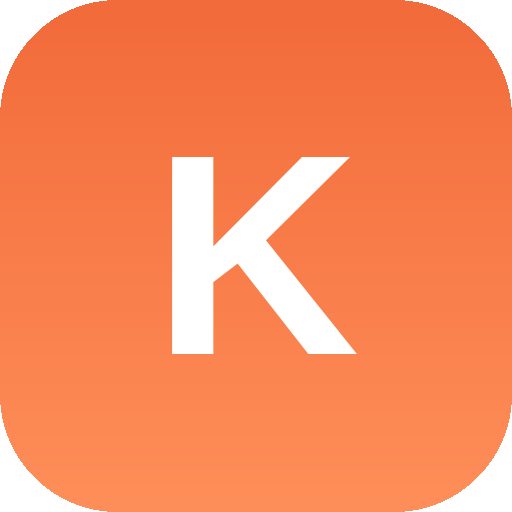
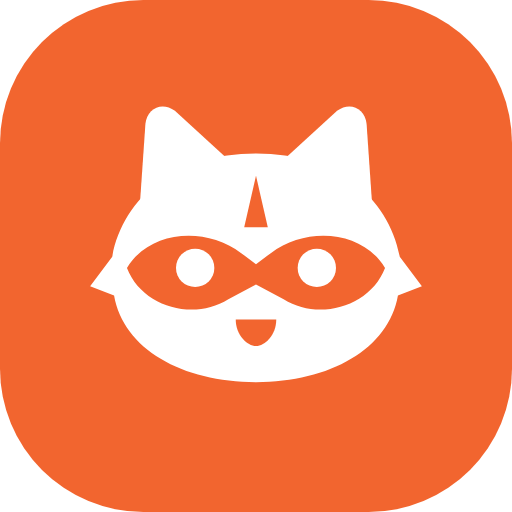
Yeni marka: sade rakun logosu (uygulama ikonu, sekme ikonu, giriş, kenar çubuğu, başlık çubuğu), yükleme animasyonu (web açılışı, masaüstü açılış ekranı, kurulum); masaüstü 1.0.7
Claude-Session: https://claude.ai/code/session_01AcU5T4gWWL8fk1GJf9ZqYd

diff --git a/public/index.html b/public/index.html
@@ -31,7 +31,9 @@
   #auth { position: fixed; inset: 0; z-index: 20; display: flex; align-items: center; justify-content: center;
     background: radial-gradient(circle at 20% 20%, rgba(255,138,76,.18) 0, transparent 40%), radial-gradient(circle at 80% 80%, rgba(255,179,71,.12) 0, transparent 40%), var(--bg); }
   #auth .card { background: var(--panel); width: 400px; padding: 36px; border-radius: 28px; text-align: center; box-shadow: 0 20px 60px rgba(0,0,0,.45); border: 1px solid var(--line); }
-  .logo { width: 72px; height: 72px; margin: 0 auto 14px; border-radius: 22px; background: var(--mine); color: #fff; display: flex; align-items: center; justify-content: center; font-size: 36px; transform: rotate(-6deg); }
+  .logo { width: 76px; height: 76px; margin: 0 auto 14px; border-radius: 22px; background: #F2652F; color: #fff; display: flex; align-items: center; justify-content: center; }
+  .logo .klogo { width: 56px; height: 56px; }
+  .ic.klogo { stroke: none; }
   #auth h1 { font-size: 28px; font-weight: 800; }
   #auth p { color: var(--muted); margin: 6px 0 20px; }
   .tabs { display: flex; background: var(--card); border-radius: 14px; padding: 4px; margin-bottom: 16px; }
@@ -50,7 +52,7 @@
   .srv { width: 48px; height: 48px; border-radius: 50%; background: var(--card); border: 2px solid var(--line); font-weight: 800; font-size: 17px; transition: all .15s; position: relative; flex-shrink: 0; }
   .srv:hover { border-radius: 16px; border-color: var(--accent-2); }
   .srv.active { border-radius: 16px; background: var(--accent); border-color: var(--accent); color: #fff; }
-  .srv.home { background: var(--mine); border: none; color: #fff; font-size: 22px; border-radius: 16px; }
+  .srv.home { background: #F2652F; border: none; color: #fff; font-size: 22px; border-radius: 16px; }
   .srv.dash { border-style: dashed; color: var(--accent); font-size: 20px; }
   .srv .dot { position: absolute; right: -2px; top: -2px; width: 14px; height: 14px; border-radius: 50%; background: var(--red); border: 3px solid var(--panel); }
   .rsep { width: 30px; height: 2px; background: var(--line); border-radius: 2px; flex-shrink: 0; }
@@ -351,7 +353,7 @@
   .ic.fill { fill: currentColor; stroke: none; }
   button .ic + span, .ic + span { margin-left: 6px; }
   .logo .ic { width: 40px; height: 40px; stroke-width: 1.8; }
-  .srv.home .ic { width: 26px; height: 26px; }
+  .srv.home .ic { width: 30px; height: 30px; }
   .room .ico .ic { width: 17px; height: 17px; color: var(--accent); }
   .room.active .ico .ic { color: #fff; }
   .hbtn .ic, .ibtn .ic { width: 19px; height: 19px; }
@@ -415,8 +417,8 @@
   #titlebar { display: none; }
   body.has-tb #titlebar { display: flex; position: fixed; top: 0; left: 0; right: 0; height: 34px; align-items: center; gap: 8px; padding-left: 14px; -webkit-app-region: drag; user-select: none;
     font-size: 12.5px; font-weight: 800; letter-spacing: .02em; color: var(--muted); z-index: 60; background: var(--bg); }
-  #titlebar .tb-logo { width: 18px; height: 18px; border-radius: 6px; background: var(--mine); display: flex; align-items: center; justify-content: center; }
-  #titlebar .tb-logo .ic { width: 13px; height: 13px; color: #fff; stroke-width: 2.4; }
+  #titlebar .tb-logo { width: 18px; height: 18px; border-radius: 5px; background: #F2652F; display: flex; align-items: center; justify-content: center; }
+  #titlebar .tb-logo .ic { width: 14px; height: 14px; color: #fff; }
   #titlebar .tb-where { margin-left: 4px; font-weight: 700; opacity: .7; }
   body.has-tb #app { height: calc(100vh - 34px); margin-top: 34px; padding-top: 2px; }
   body.has-tb #auth { top: 34px; }
@@ -708,7 +710,10 @@
   .xox button.x, .xox button.o { animation: pop .3s var(--ease); }
   #auth .card { animation: authIn .6s var(--ease-out); }
   @keyframes authIn { from { opacity: 0; transform: translateY(24px) scale(.96); } }
-  .logo { animation: wave 2.4s ease-in-out infinite; }
+  .logo { animation: none; }
+  #boot { position: fixed; inset: 0; z-index: 100; background: #17110e; display: flex; flex-direction: column; align-items: center; justify-content: center; gap: 4px; transition: opacity .3s; }
+  #boot.out { opacity: 0; pointer-events: none; }
+  #boot div { color: #b49c89; font-weight: 700; font-size: 14px; }
   @keyframes wave { 0%, 100% { transform: rotate(-6deg); } 50% { transform: rotate(6deg) translateY(-3px); } }
   #auth-err:not(:empty) { animation: shake .4s; }
   @keyframes shake { 20%, 60% { transform: translateX(-6px); } 40%, 80% { transform: translateX(6px); } }
@@ -828,10 +833,11 @@
 </head>
 <body>
 
-<div id="titlebar"><span class="tb-logo"><svg class="ic" viewBox="0 0 24 24" aria-hidden="true"><path d="M5 4h14a3 3 0 0 1 3 3v8a3 3 0 0 1-3 3h-6l-5 4v-4H5a3 3 0 0 1-3-3V7a3 3 0 0 1 3-3z"/><path d="M9 9.5v1M15 9.5v1M8.5 13.5c1.8 1.6 5.2 1.6 7 0"/></svg></span>Kanka Chat<span class="tb-where" id="tb-where"></span></div>
+<div id="titlebar"><span class="tb-logo"><svg class="ic klogo" viewBox="0 0 100 100" aria-hidden="true"><defs><mask id="klm-tb" maskUnits="userSpaceOnUse" x="0" y="0" width="100" height="100"><rect width="100" height="100" fill="#000"/><path d="M18 46 L20 17 C20.4 12.6 24.6 10.8 28 13.4 L44 28 Z" fill="#fff"/><path d="M82 46 L80 17 C79.6 12.6 75.4 10.8 72 13.4 L56 28 Z" fill="#fff"/><path d="M50 25 C72 25 86 37 89 53 L95 61 L88.5 63.5 C86 78 70 87 50 87 C30 87 14 78 11.5 63.5 L5 61 L11 53 C14 37 28 25 50 25 Z" fill="#fff"/><path d="M50 31 L53.2 45 L46.8 45 Z" fill="#000"/><path d="M15 56 C21 46 36 44.5 46 52 L50 55 L54 52 C64 44.5 79 46 85 56 C81 66.5 67 70.5 57.5 64.5 L50 60.5 L42.5 64.5 C33 70.5 19 66.5 15 56 Z" fill="#000"/><circle cx="33.5" cy="56" r="5.2" fill="#fff"/><circle cx="66.5" cy="56" r="5.2" fill="#fff"/><path d="M44.5 70 L55.5 70 C55.5 74.2 52.4 77.2 50 77.2 C47.6 77.2 44.5 74.2 44.5 70 Z" fill="#000"/></mask></defs><rect width="100" height="100" fill="currentColor" mask="url(#klm-tb)"/></svg></span>Kanka Chat<span class="tb-where" id="tb-where"></span></div>
+<div id="boot" role="status" aria-live="polite"><img src="/yukleniyor.gif" width="160" height="160" alt=""><div id="boot-t">Bağlanılıyor…</div></div>
 <div id="auth">
   <form class="card" id="auth-form">
-    <div class="logo"><svg class="ic " viewBox="0 0 24 24" aria-hidden="true"><path d="M5 4h14a3 3 0 0 1 3 3v8a3 3 0 0 1-3 3h-6l-5 4v-4H5a3 3 0 0 1-3-3V7a3 3 0 0 1 3-3z"/><path d="M9 9.5v1M15 9.5v1M8.5 13.5c1.8 1.6 5.2 1.6 7 0"/></svg></div>
+    <div class="logo"><svg class="ic klogo" viewBox="0 0 100 100" aria-hidden="true"><defs><mask id="klm-auth" maskUnits="userSpaceOnUse" x="0" y="0" width="100" height="100"><rect width="100" height="100" fill="#000"/><path d="M18 46 L20 17 C20.4 12.6 24.6 10.8 28 13.4 L44 28 Z" fill="#fff"/><path d="M82 46 L80 17 C79.6 12.6 75.4 10.8 72 13.4 L56 28 Z" fill="#fff"/><path d="M50 25 C72 25 86 37 89 53 L95 61 L88.5 63.5 C86 78 70 87 50 87 C30 87 14 78 11.5 63.5 L5 61 L11 53 C14 37 28 25 50 25 Z" fill="#fff"/><path d="M50 31 L53.2 45 L46.8 45 Z" fill="#000"/><path d="M15 56 C21 46 36 44.5 46 52 L50 55 L54 52 C64 44.5 79 46 85 56 C81 66.5 67 70.5 57.5 64.5 L50 60.5 L42.5 64.5 C33 70.5 19 66.5 15 56 Z" fill="#000"/><circle cx="33.5" cy="56" r="5.2" fill="#fff"/><circle cx="66.5" cy="56" r="5.2" fill="#fff"/><path d="M44.5 70 L55.5 70 C55.5 74.2 52.4 77.2 50 77.2 C47.6 77.2 44.5 74.2 44.5 70 Z" fill="#000"/></mask></defs><rect width="100" height="100" fill="currentColor" mask="url(#klm-auth)"/></svg></div>
     <h1>Selam kanka!</h1>
     <p>Hesabına gir ya da yeni hesap aç.</p>
     <div class="tabs"><button type="button" class="on" data-m="login">Giriş yap</button><button type="button" data-m="register">Kayıt ol</button></div>
@@ -980,7 +986,11 @@ const ICON = {
   idcopy: '<rect x="3" y="5" width="18" height="14" rx="2"/><path d="M7 10h4M7 14h7M15 10h2"/>',
   folderPlus: '<path d="M3 7a2 2 0 0 1 2-2h4l2 2h8a2 2 0 0 1 2 2v8a2 2 0 0 1-2 2H5a2 2 0 0 1-2-2z"/><path d="M12 11v5M9.5 13.5h5"/>'
 };
-const ic = (n, cls = '') => `<svg class="ic ${cls}" viewBox="0 0 24 24" aria-hidden="true">${ICON[n] || ''}</svg>`;
+// Kanka rakun işareti: tek renk (currentColor), yüz maskeyle oyulur
+let logoN = 0;
+const LOGO_IN = id => `<defs><mask id="${id}" maskUnits="userSpaceOnUse" x="0" y="0" width="100" height="100"><rect width="100" height="100" fill="#000"/><path d="M18 46 L20 17 C20.4 12.6 24.6 10.8 28 13.4 L44 28 Z" fill="#fff"/><path d="M82 46 L80 17 C79.6 12.6 75.4 10.8 72 13.4 L56 28 Z" fill="#fff"/><path d="M50 25 C72 25 86 37 89 53 L95 61 L88.5 63.5 C86 78 70 87 50 87 C30 87 14 78 11.5 63.5 L5 61 L11 53 C14 37 28 25 50 25 Z" fill="#fff"/><path d="M50 31 L53.2 45 L46.8 45 Z" fill="#000"/><path d="M15 56 C21 46 36 44.5 46 52 L50 55 L54 52 C64 44.5 79 46 85 56 C81 66.5 67 70.5 57.5 64.5 L50 60.5 L42.5 64.5 C33 70.5 19 66.5 15 56 Z" fill="#000"/><circle cx="33.5" cy="56" r="5.2" fill="#fff"/><circle cx="66.5" cy="56" r="5.2" fill="#fff"/><path d="M44.5 70 L55.5 70 C55.5 74.2 52.4 77.2 50 77.2 C47.6 77.2 44.5 74.2 44.5 70 Z" fill="#000"/></mask></defs><rect width="100" height="100" fill="currentColor" mask="url(#${id})"/>`;
+const logoSvg = (cls = '') => `<svg class="ic klogo ${cls}" viewBox="0 0 100 100" aria-hidden="true">${LOGO_IN('klm' + (++logoN))}</svg>`;
+const ic = (n, cls = '') => n === 'logo' ? logoSvg(cls) : `<svg class="ic ${cls}" viewBox="0 0 24 24" aria-hidden="true">${ICON[n] || ''}</svg>`;
 const $ = s => document.querySelector(s);
 const store = { get: k => { try { return localStorage.getItem(k); } catch { return null; } }, set: (k, v) => { try { v == null ? localStorage.removeItem(k) : localStorage.setItem(k, v); } catch {} } };
 
@@ -1050,7 +1060,10 @@ $('#auth-form').onsubmit = e => {
   if (!name || !password) return $('#auth-err').textContent = 'Kullanıcı adı ve şifre gerekli.';
   socket.emit(authMode, { name, password }, onAuth);
 };
+function hideBoot() { const b = $('#boot'); if (!b || b.classList.contains('out')) return; b.classList.add('out'); setTimeout(() => b.remove(), 400); }
+setTimeout(() => { const t = $('#boot-t'); if (t && $('#boot')) t.textContent = 'Sunucuya ulaşılamıyor, tekrar deneniyor…'; }, 7000);
 function onAuth(res) {
+  hideBoot();
   if (res.error) { store.set('kanka-token', null); $('#auth').style.display = 'flex'; return $('#auth-err').textContent = res.error; }
   store.set('kanka-token', res.token);
   S.me = res.user.name;
@@ -1072,7 +1085,7 @@ function onAuth(res) {
 }
 socket.on('connect', () => {
   const t = store.get('kanka-token');
-  if (t) socket.emit('auth', t, onAuth); else $('#auth').style.display = 'flex';
+  if (t) socket.emit('auth', t, onAuth); else { $('#auth').style.display = 'flex'; hideBoot(); }
   if (myVoice) { const ch = myVoice; cleanupVoice(); joinVoice(ch); }
 });
 function logout() { window.kankaDesktop?.logout(); socket.emit('logout', store.get('kanka-token')); store.set('kanka-token', null); location.reload(); }

diff --git a/desktop/splash.html b/desktop/splash.html
@@ -10,7 +10,8 @@
   .logo svg { width: 50px; height: 50px; fill: none; stroke: #fff; stroke-width: 2; stroke-linecap: round; stroke-linejoin: round; }
   .eyes { animation: blink 3.6s infinite; transform-origin: 12px 10px; }
   .shadow { width: 64px; height: 8px; border-radius: 50%; background: #120d0b; margin-top: 14px; animation: shadow 1.8s ease-in-out infinite; }
-  .status { margin-top: 26px; font-size: 14px; font-weight: 600; letter-spacing: .2px; min-height: 20px; transition: opacity .2s; }
+  .anim { display: block; margin-top: -6px; }
+  .status { margin-top: 4px; font-size: 14px; font-weight: 600; letter-spacing: .2px; min-height: 20px; transition: opacity .2s; }
   .sub { margin-top: 6px; font-size: 11.5px; color: #b49c89; min-height: 16px; }
   .bar { width: 150px; height: 4px; border-radius: 4px; background: #33271f; margin-top: 18px; overflow: hidden; position: relative; }
   .bar i { position: absolute; top: 0; bottom: 0; width: 40%; border-radius: 4px; background: #ff8a4c; animation: slide 1.2s ease-in-out infinite; }
@@ -23,8 +24,7 @@
 </head>
 <body>
   <div class="card">
-    <div class="logo"><svg viewBox="0 0 24 24"><path d="M5 4h14a3 3 0 0 1 3 3v8a3 3 0 0 1-3 3h-6l-5 4v-4H5a3 3 0 0 1-3-3V7a3 3 0 0 1 3-3z"/><g class="eyes"><path d="M9 9.5v1M15 9.5v1"/></g><path d="M8.5 13.5c1.8 1.6 5.2 1.6 7 0"/></svg></div>
-    <div class="shadow"></div>
+    <img class="anim" src="yukleniyor.gif" width="150" height="150" alt="">
     <div class="status" id="st">Başlatılıyor…</div>
     <div class="sub" id="sub"></div>
     <div class="bar" id="bar"><i id="fill"></i></div>

diff --git a/public/sw.js b/public/sw.js
@@ -1,5 +1,5 @@
 // Kanka Chat service worker: uygulama kabuğunu önbellekte tutar, çevrimdışıyken de açılır
-const CACHE = 'kanka-v4';
+const CACHE = 'kanka-v5';
 const SHELL = ['/', '/manifest.json', '/icon-192.png', '/icon-512.png', '/favicon.png'];
 self.addEventListener('install', e => { e.waitUntil(caches.open(CACHE).then(c => c.addAll(SHELL)).then(() => self.skipWaiting())); });
 self.addEventListener('activate', e => {
